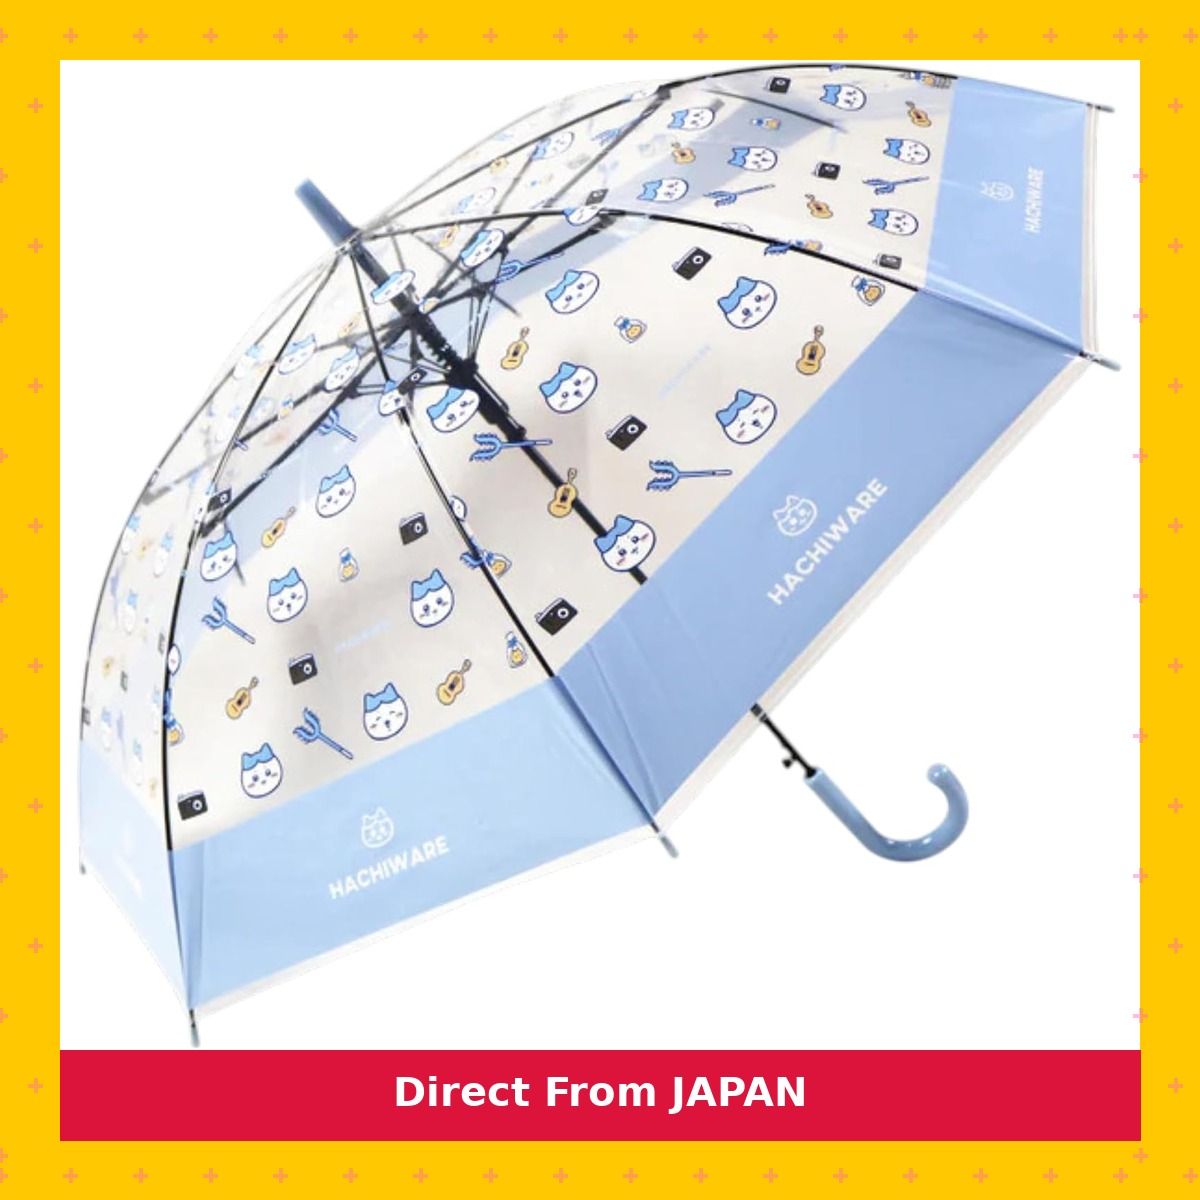
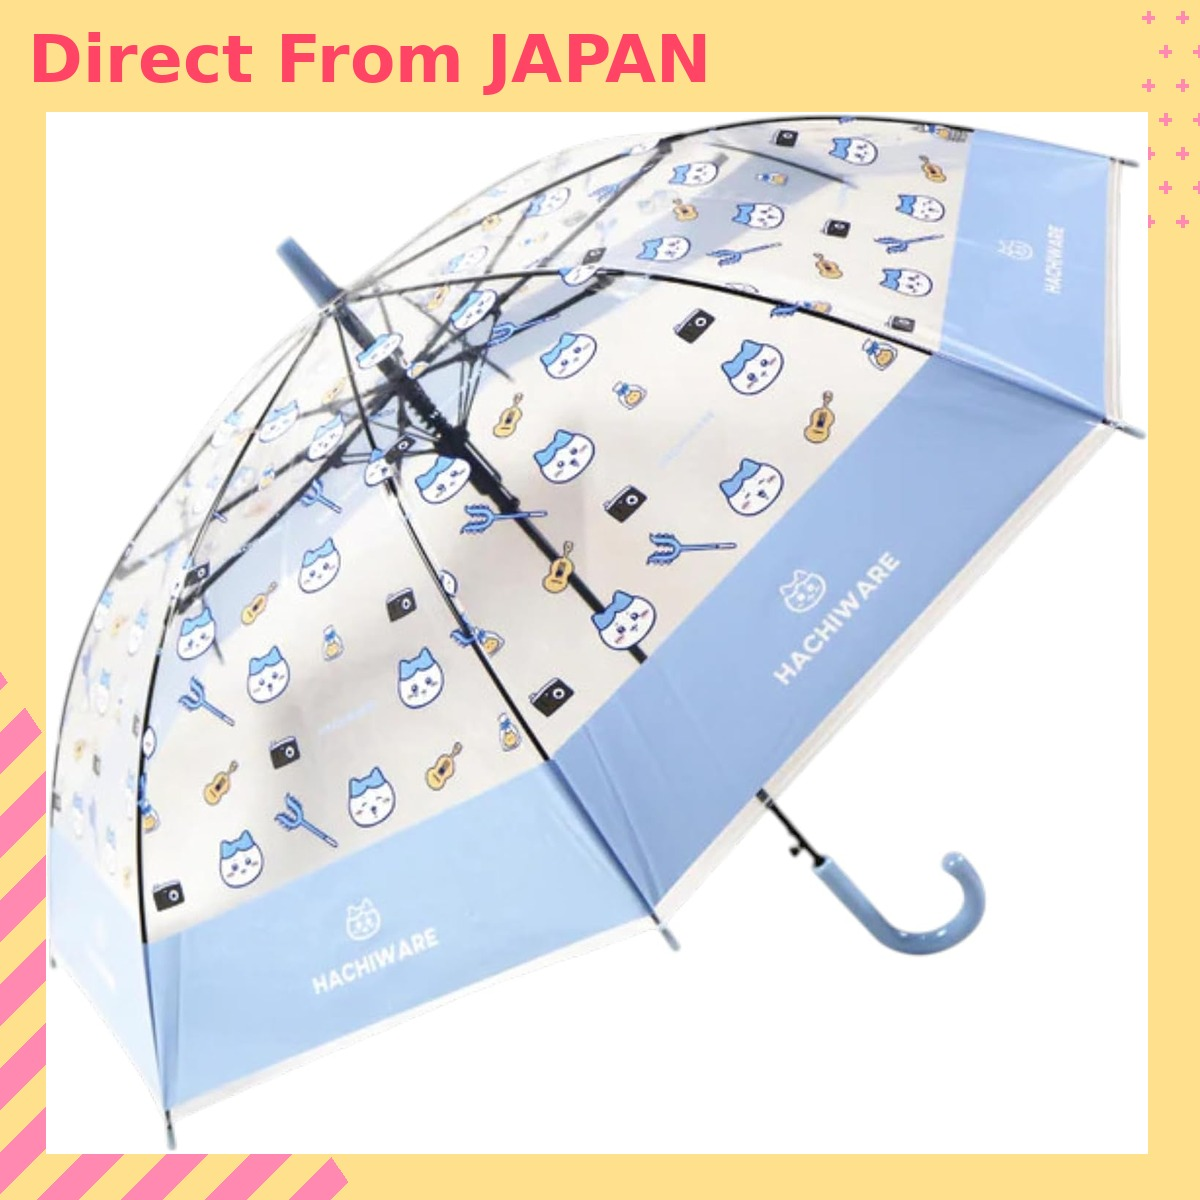
Replace Cover image frame design per user-supplied reference
New look: solid yellow background, bold pink "Direct From JAPAN" text
top-left (no banner bar), pink cross-pattern block top-right, diagonal
pink/yellow striped ribbon in the bottom-left corner, white photo square
sized to leave room for the title. Replaces the previous four-sided
yellow border + bottom crimson banner design.

Claude-Session: https://claude.ai/code/session_016fUpHmw9gqR8fkemof6mLq

diff --git a/scripts/add_shopee_frame.py b/scripts/add_shopee_frame.py
@@ -1,8 +1,13 @@
 """
 add_shopee_frame.py
 
-Shopee出品用Cover画像に「黄色枠＋ピンク十字模様＋Direct From JAPANバナー」を
-自動で加工するスクリプト（従来Canvaで手作業していた加工の自動化版）。
+Shopee出品用Cover画像に「黄色背景＋左上ピンク文字＋右上十字模様＋左下斜めストライプ」の
+フレームを自動で加工するスクリプト(従来Canvaで手作業していた加工の自動化版)。
+
+2026-09-15更新: デザインを一新(黄色枠+下部バナー方式 → 全面黄色背景+左上テキスト+
+右上十字ブロック+左下斜めストライプのリボン方式)。ユーザーから共有された参考画像に
+合わせている。バリエーション画像(Image per Variation列)にはこのフレームを使わないこと
+(Cover image列のみに使う)。
 
 使い方:
     from add_shopee_frame import add_frame
@@ -14,20 +19,31 @@ Shopee出品用Cover画像に「黄色枠＋ピンク十字模様＋Direct From 
 """
 
 from PIL import Image, ImageDraw, ImageFont
-import math
 import os
 
-# ---- デザイン設定（Canva手作業版の見た目に合わせて調整可能） ----
-CANVAS_SIZE = 1200          # 出力画像は正方形(Shopee推奨)
-BORDER_WIDTH = 60           # 黄色枠の太さ(px)
-BORDER_COLOR = (255, 200, 0)      # 黄色
-CROSS_COLOR = (255, 105, 180, 110)  # ピンク十字模様(半透明)
-CROSS_SPACING = 70          # 十字模様の間隔(px)
-CROSS_SIZE = 14             # 十字1つのサイズ(px)
+# ---- デザイン設定(参考画像に合わせて調整可能) ----
+CANVAS_SIZE = 1200
+BG_COLOR = (255, 224, 140)        # 黄色背景
+TITLE_COLOR = (255, 68, 102)      # 左上テキストのピンク/コーラルレッド
+TITLE_MARGIN_X = 28
+TITLE_MARGIN_Y = 20
+TITLE_FONT_SIZE = 66
+
+PHOTO_MARGIN_LEFT = 46
+PHOTO_MARGIN_RIGHT = 52
+PHOTO_MARGIN_BOTTOM = 46
+PHOTO_MARGIN_TOP = 112             # タイトル文字の下に十分な余白を確保
+
+CROSS_COLOR = (255, 137, 176)
+CROSS_BLOCK = (CANVAS_SIZE - 52, 0, CANVAS_SIZE, 232)  # 右上の十字模様ブロック(x0,y0,x1,y1)
+CROSS_SPACING = 34
+CROSS_SIZE = 12
 CROSS_THICKNESS = 4
-BANNER_HEIGHT = 90
-BANNER_BG = (220, 20, 60)   # バナー背景(クリムゾン)
-BANNER_TEXT_COLOR = (255, 255, 255)
+
+STRIPE_COLORS = [(255, 137, 176), (255, 224, 140)]  # ピンク / 背景と同系の淡黄
+STRIPE_WIDTH = 42
+STRIPE_CORNER_Y_RATIO = 0.56   # 左下ストライプ三角形の開始位置(高さに対する比率)
+STRIPE_CORNER_X_RATIO = 0.30   # 左下ストライプ三角形の底辺の広がり(幅に対する比率)
 
 
 def _draw_cross_pattern(draw: ImageDraw.ImageDraw, box, spacing=CROSS_SPACING):
@@ -47,6 +63,38 @@ def _draw_cross_pattern(draw: ImageDraw.ImageDraw, box, spacing=CROSS_SPACING):
         row += 1
 
 
+def _diagonal_stripes(size, colors, stripe_width=STRIPE_WIDTH):
+    """45度の斜めストライプ模様を敷き詰めた画像を返す"""
+    w, h = size
+    img = Image.new("RGB", (w, h), colors[0])
+    draw = ImageDraw.Draw(img)
+    x = -h
+    i = 0
+    while x < w + h:
+        color = colors[i % len(colors)]
+        draw.polygon(
+            [(x, 0), (x + stripe_width, 0), (x + stripe_width - h, h), (x - h, h)],
+            fill=color,
+        )
+        x += stripe_width
+        i += 1
+    return img
+
+
+def _paste_bottom_left_stripes(canvas: Image.Image):
+    """左下角に斜めストライプの三角形リボンを合成する"""
+    w, h = canvas.size
+    stripes = _diagonal_stripes((w, h), STRIPE_COLORS)
+
+    mask = Image.new("L", (w, h), 0)
+    mdraw = ImageDraw.Draw(mask)
+    corner_y = int(h * STRIPE_CORNER_Y_RATIO)
+    corner_x = int(w * STRIPE_CORNER_X_RATIO)
+    mdraw.polygon([(0, corner_y), (0, h), (corner_x, h)], fill=255)
+
+    canvas.paste(stripes, (0, 0), mask)
+
+
 def _load_font(size):
     candidates = [
         "/usr/share/fonts/truetype/dejavu/DejaVuSans-Bold.ttf",
@@ -60,47 +108,36 @@ def _load_font(size):
 
 def add_frame(input_path: str, output_path: str, banner_text: str = "Direct From JAPAN"):
     """
-    input_path の商品画像に黄色枠＋ピンク十字模様＋バナーを加工し、output_path に保存する。
+    input_path の商品画像に、黄色背景+左上ピンク文字+右上十字模様+左下斜めストライプの
+    フレームを加工し、output_path に保存する。
     """
     base = Image.open(input_path).convert("RGB")
 
-    # 正方形キャンバスの中央に商品画像を配置(アスペクト比維持・余白は白)
-    inner = CANVAS_SIZE - 2 * BORDER_WIDTH
-    canvas = Image.new("RGB", (CANVAS_SIZE, CANVAS_SIZE), BORDER_COLOR)
+    canvas = Image.new("RGB", (CANVAS_SIZE, CANVAS_SIZE), BG_COLOR)
 
-    photo_area = inner - BANNER_HEIGHT
-    ratio = min(inner / base.width, photo_area / base.height)
+    # 左下の斜めストライプリボンを先に合成(写真より下のレイヤー)
+    _paste_bottom_left_stripes(canvas)
+
+    # 右上の十字模様ブロック
+    draw = ImageDraw.Draw(canvas)
+    _draw_cross_pattern(draw, CROSS_BLOCK)
+
+    # 中央〜右下寄りに白背景の正方形フォトエリアを配置(アスペクト比維持)
+    photo_w = CANVAS_SIZE - PHOTO_MARGIN_LEFT - PHOTO_MARGIN_RIGHT
+    photo_h = CANVAS_SIZE - PHOTO_MARGIN_TOP - PHOTO_MARGIN_BOTTOM
+    ratio = min(photo_w / base.width, photo_h / base.height)
     new_w, new_h = int(base.width * ratio), int(base.height * ratio)
     resized = base.resize((new_w, new_h), Image.LANCZOS)
 
-    white_bg = Image.new("RGB", (inner, photo_area), (255, 255, 255))
-    paste_x = (inner - new_w) // 2
-    paste_y = (photo_area - new_h) // 2
+    white_bg = Image.new("RGB", (photo_w, photo_h), (255, 255, 255))
+    paste_x = (photo_w - new_w) // 2
+    paste_y = (photo_h - new_h) // 2
     white_bg.paste(resized, (paste_x, paste_y))
-    canvas.paste(white_bg, (BORDER_WIDTH, BORDER_WIDTH))
+    canvas.paste(white_bg, (PHOTO_MARGIN_LEFT, PHOTO_MARGIN_TOP))
 
-    # ピンク十字模様を黄色枠の上に重ねる(半透明合成)
-    overlay = Image.new("RGBA", canvas.size, (0, 0, 0, 0))
-    odraw = ImageDraw.Draw(overlay)
-    # 上枠・下枠・左枠・右枠それぞれに模様を敷く
-    _draw_cross_pattern(odraw, (0, 0, CANVAS_SIZE, BORDER_WIDTH))
-    _draw_cross_pattern(odraw, (0, CANVAS_SIZE - BORDER_WIDTH, CANVAS_SIZE, CANVAS_SIZE))
-    _draw_cross_pattern(odraw, (0, 0, BORDER_WIDTH, CANVAS_SIZE))
-    _draw_cross_pattern(odraw, (CANVAS_SIZE - BORDER_WIDTH, 0, CANVAS_SIZE, CANVAS_SIZE))
-    canvas = Image.alpha_composite(canvas.convert("RGBA"), overlay).convert("RGB")
-
-    # 下部に「Direct From JAPAN」バナー
-    draw = ImageDraw.Draw(canvas)
-    banner_y0 = BORDER_WIDTH + photo_area
-    banner_y1 = banner_y0 + BANNER_HEIGHT
-    draw.rectangle([BORDER_WIDTH, banner_y0, CANVAS_SIZE - BORDER_WIDTH, banner_y1], fill=BANNER_BG)
-
-    font = _load_font(40)
-    bbox = draw.textbbox((0, 0), banner_text, font=font)
-    tw, th = bbox[2] - bbox[0], bbox[3] - bbox[1]
-    tx = (CANVAS_SIZE - tw) // 2
-    ty = banner_y0 + (BANNER_HEIGHT - th) // 2 - bbox[1]
-    draw.text((tx, ty), banner_text, fill=BANNER_TEXT_COLOR, font=font)
+    # 左上に「Direct From JAPAN」テキスト(バナー背景なし、黄色地に直接)
+    font = _load_font(TITLE_FONT_SIZE)
+    draw.text((TITLE_MARGIN_X, TITLE_MARGIN_Y), banner_text, fill=TITLE_COLOR, font=font)
 
     canvas.save(output_path, quality=92)
     return output_path
